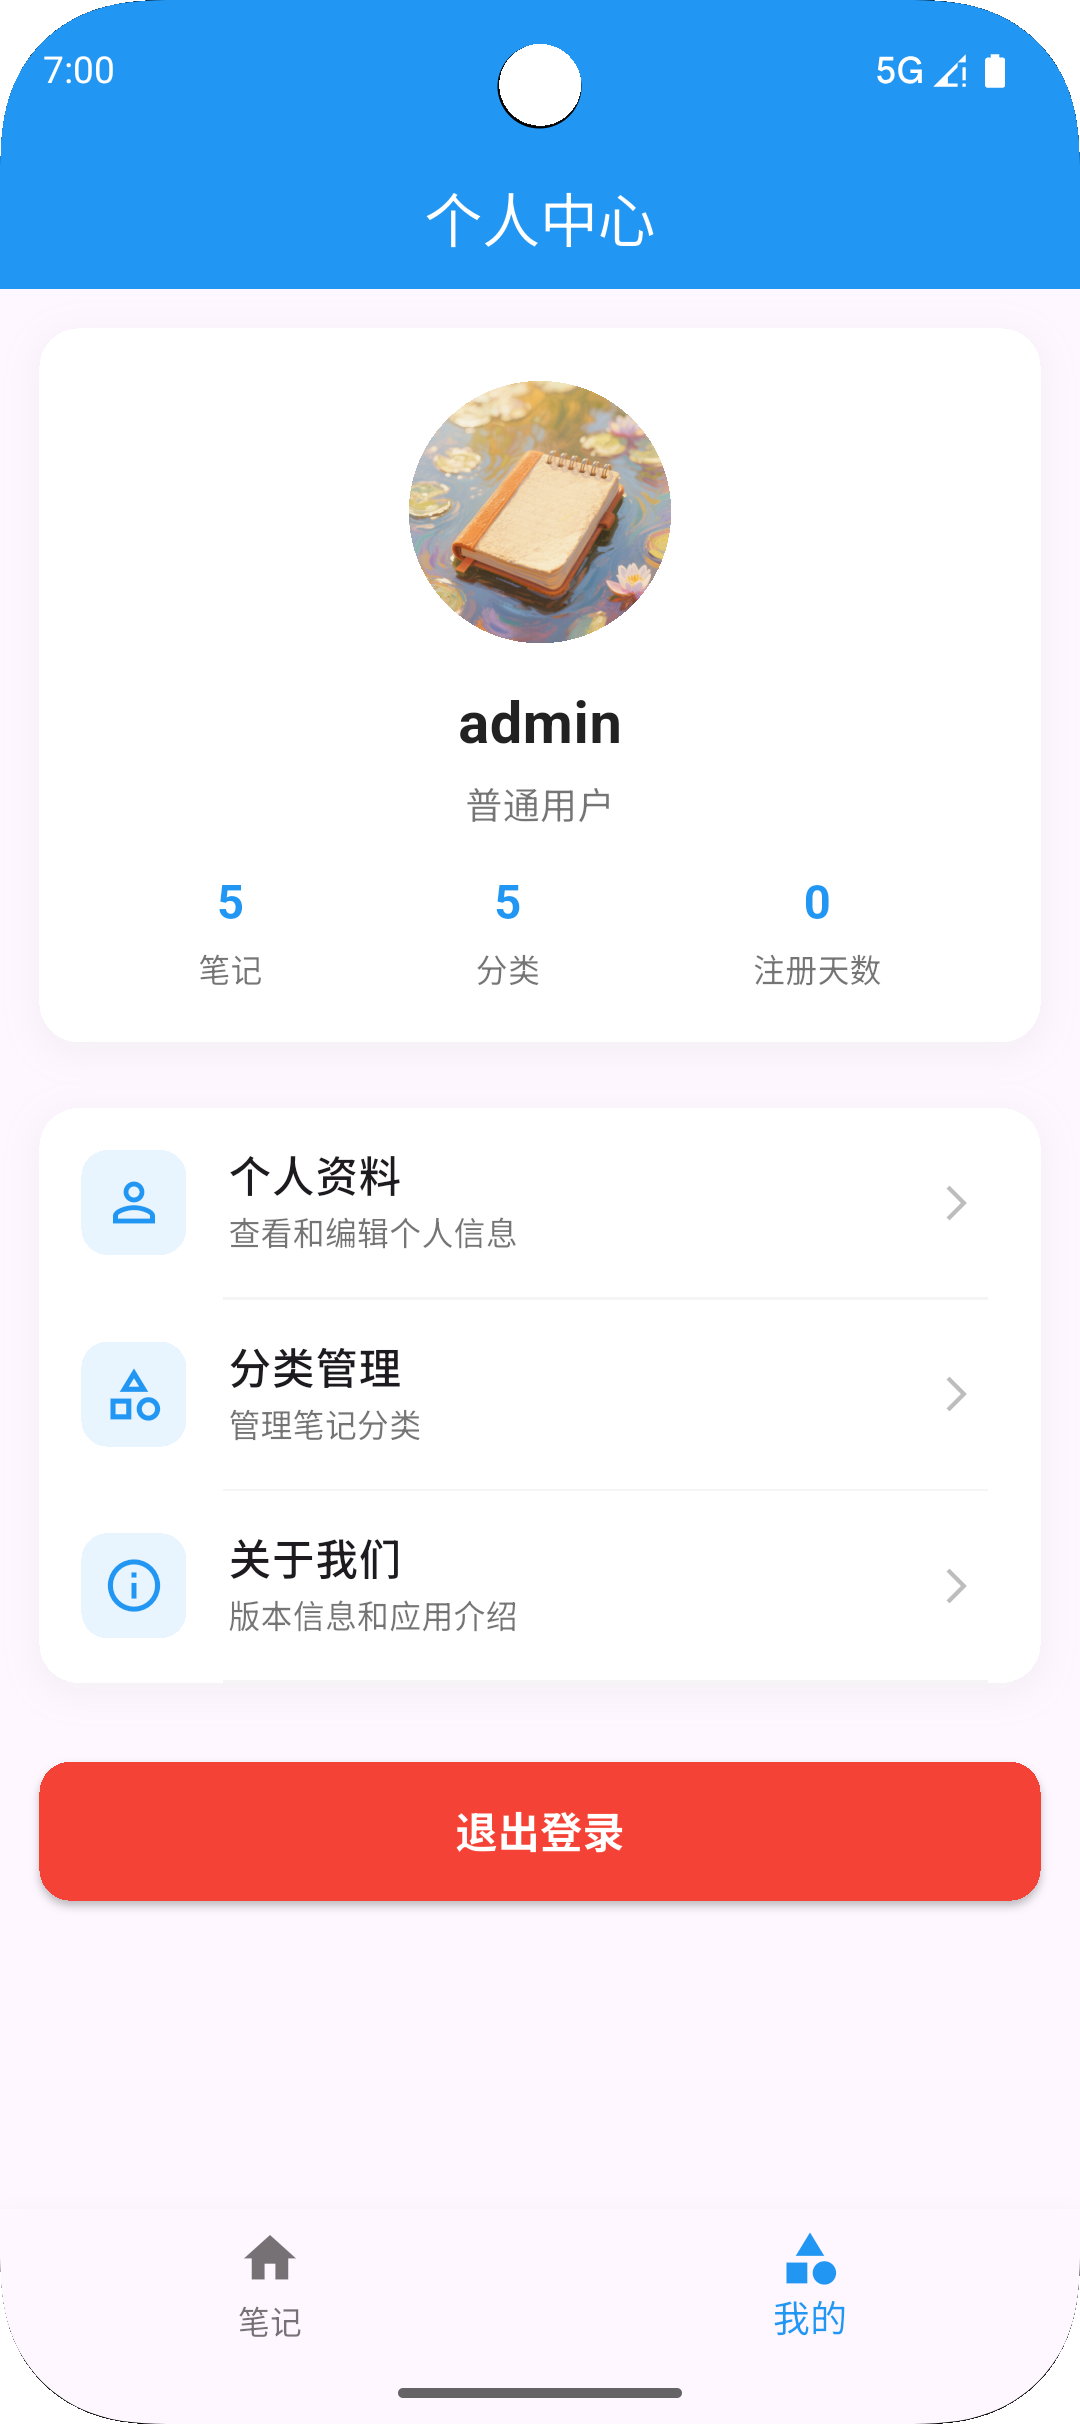
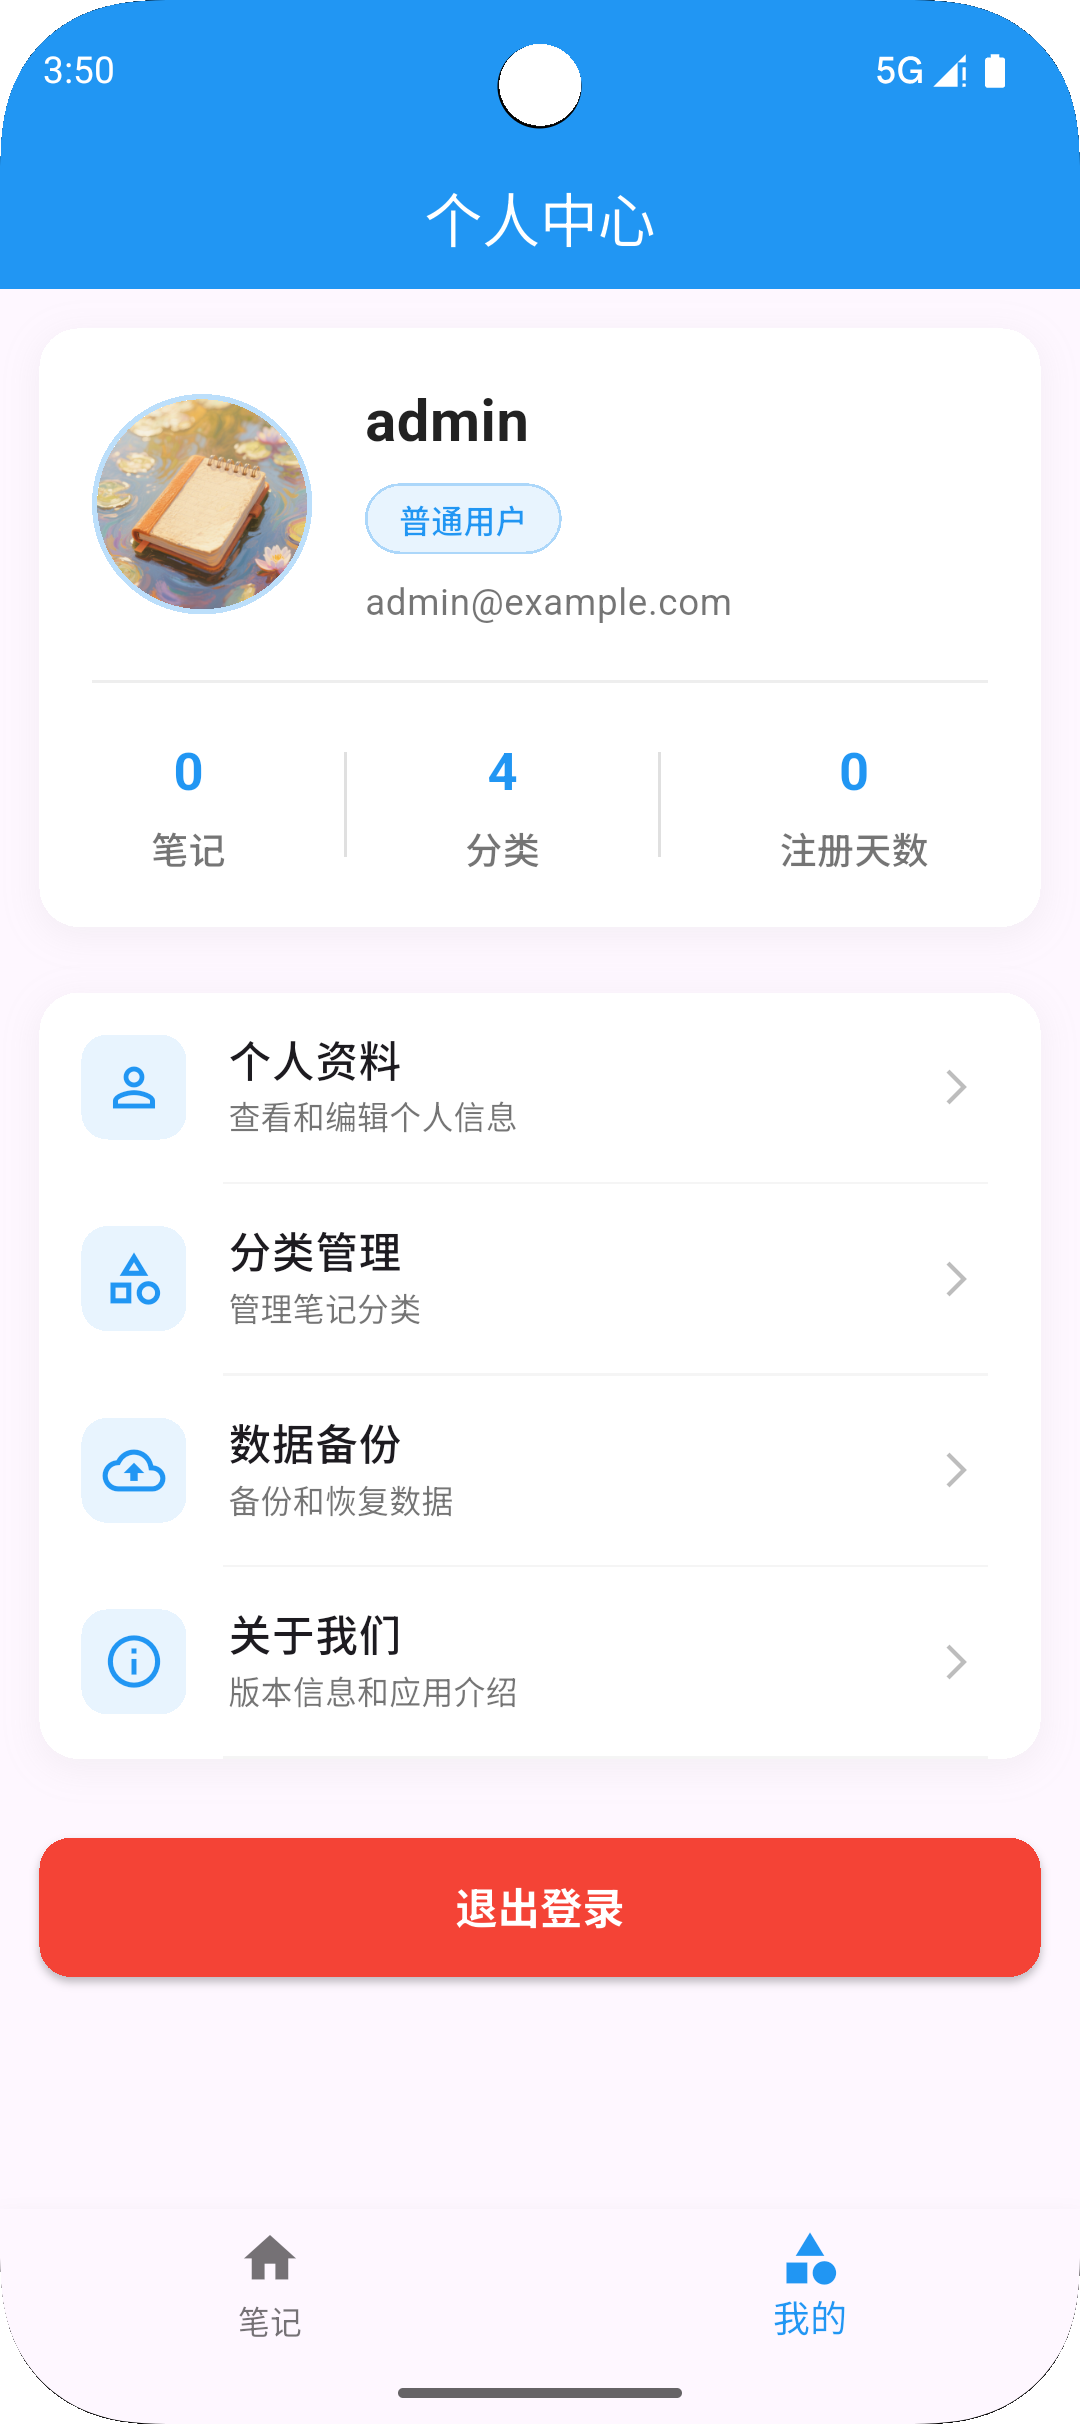
docs:  新增demo25 效果图

diff --git a/README.md b/README.md
@@ -96,7 +96,7 @@
 <img src="./images/24-1.png" width="30%" style="margin-right:4px" /><img src="./images/24-2.png" width="30%" style="margin-right:4px" />
 
 # dem25
-<img src="./images/25-1.png" width="30%" style="margin-right:4px" /><img src="./images/25-2.png" width="30%" style="margin-right:4px" /><img src="./images/25-3.png" width="30%" style="margin-right:4px" /><img src="./images/25-7.png" width="30%" style="margin-right:4px" /><img src="./images/25-8.png" width="30%" style="margin-right:4px" /><img src="./images/25-9.png" width="30%" style="margin-right:4px" /><img src="./images/25-4.png" width="30%" style="margin-right:4px" /><img src="./images/25-6.png" width="30%" style="margin-right:4px" /><img src="./images/25-5.png" width="30%" style="margin-right:4px" /><img src="./images/25-6.png" width="30%" style="margin-right:4px" />
+<img src="./images/25-1.png" width="30%" style="margin-right:4px" /><img src="./images/25-2.png" width="30%" style="margin-right:4px" /><img src="./images/25-3.png" width="30%" style="margin-right:4px" /><img src="./images/25-7.png" width="30%" style="margin-right:4px" /><img src="./images/25-8.png" width="30%" style="margin-right:4px" /><img src="./images/25-9.png" width="30%" style="margin-right:4px" /><img src="./images/25-4.png" width="30%" style="margin-right:4px" /><img src="./images/25-6.png" width="30%" style="margin-right:4px" /><img src="./images/25-5.png" width="30%" style="margin-right:4px" /><img src="./images/25-6.png" width="30%" style="margin-right:4px" /><img src="./images/25-10.png" width="30%" style="margin-right:4px" />
 
 # 常见命令
 ```bash
